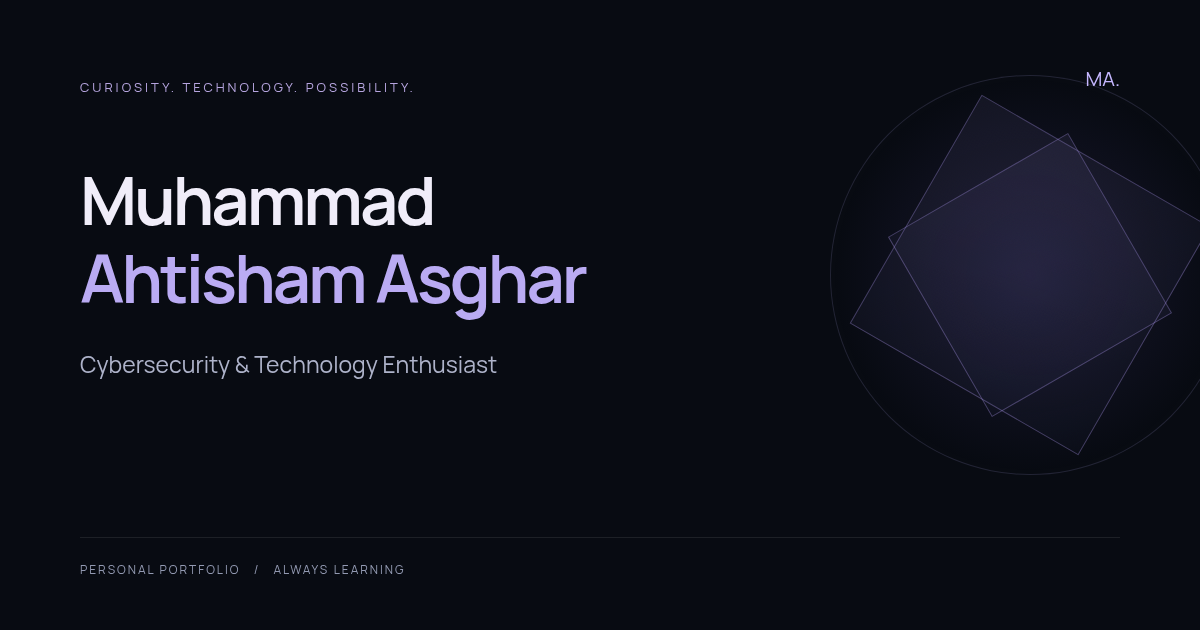
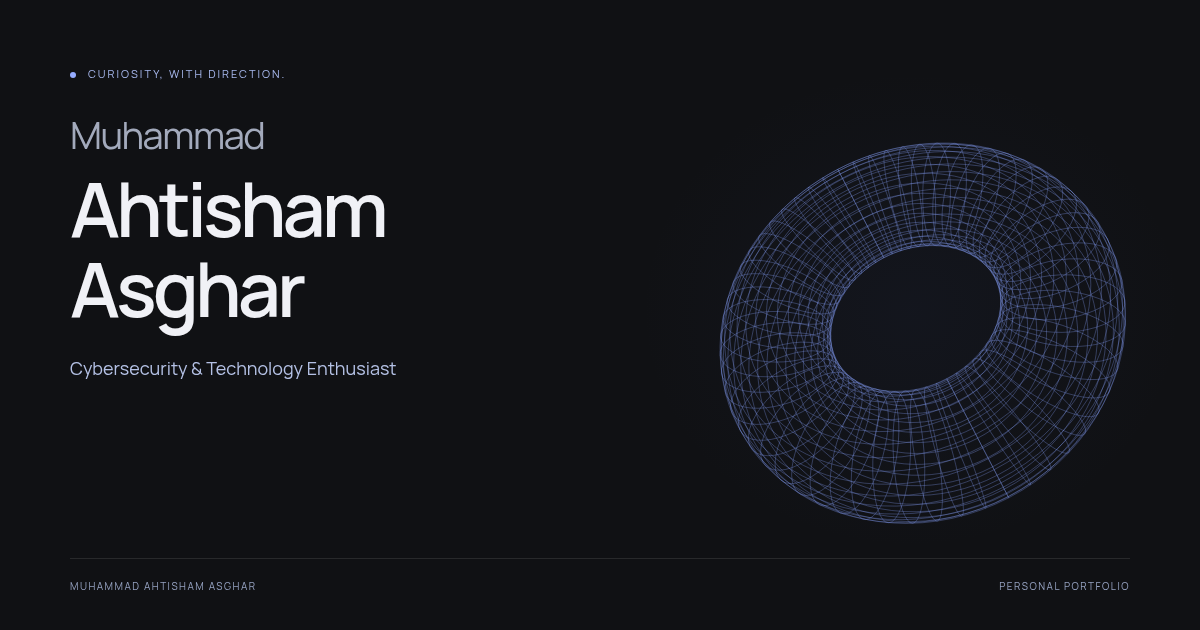
Polish portfolio presentation and update social identity

diff --git a/src/components/Contact.tsx b/src/components/Contact.tsx
@@ -83,9 +83,9 @@ export function Contact() {
               LET’S CONNECT
             </p>
             <h2 id="contact-heading">
-              Great conversations.
+              Let’s start a
               <br />
-              <span className="gradient-text">New possibilities.</span>
+              <span className="gradient-text">conversation.</span>
             </h2>
             <p>{portfolio.contact.introduction}</p>
             <div className="contact-actions">
@@ -129,7 +129,8 @@ export function Contact() {
               </div>
             )}
             <p className="social-footnote">
-              <span aria-hidden="true" />A little curiosity can go a long way.
+              <span aria-hidden="true" />
+              Good ideas often start with a conversation.
             </p>
           </div>
         </div>

diff --git a/src/components/Skills.tsx b/src/components/Skills.tsx
@@ -26,17 +26,7 @@ export function Skills() {
   return (
     <section id="skills" className="section container" tabIndex={-1} aria-label="Technical skills">
       <Reveal>
-        <SectionHeading
-          number="02"
-          label="MY GROWING TOOLKIT"
-          title={
-            <>
-              Foundations for
-              <br />
-              <span className="muted-title">what comes next.</span>
-            </>
-          }
-        >
+        <SectionHeading number="02" label="TECHNICAL TOOLKIT" title={<>Tools I’m growing with.</>}>
           Technologies and areas I’m learning and working with. Select a card to explore my focus.
         </SectionHeading>
       </Reveal>

diff --git a/src/components/Learning.tsx b/src/components/Learning.tsx
@@ -39,12 +39,12 @@ export function Learning() {
       <Reveal>
         <SectionHeading
           number="03"
-          label="THE LEARNING JOURNEY"
+          label="EDUCATION & LEARNING"
           title={
             <>
-              Progress with
+              Building a solid
               <br />
-              <span className="muted-title">purpose.</span>
+              <span className="muted-title">foundation.</span>
             </>
           }
         >

diff --git a/src/components/Projects.tsx b/src/components/Projects.tsx
@@ -74,9 +74,9 @@ export function Projects() {
             <div className="project-empty-copy">
               <StatusBadge>In the making</StatusBadge>
               <h3>
-                Good things take
+                From learning
                 <br />
-                thoughtful work.
+                to building.
               </h3>
               <p>
                 I’m exploring, experimenting, and putting what I learn into practice. This space

diff --git a/PROGRESS.md b/PROGRESS.md
@@ -2,16 +2,16 @@
 
 _Last updated: 2026-11-09 (Asia/Karachi). This document supersedes the original Codex Cloud milestones and the outdated deployment notes._
 
-## Current status — professional redesign in progress
+## Current status — professional redesign, deployment verified
 
 - **Canonical repository:** [ahtishamasghar/portfolio](https://github.com/ahtishamasghar/portfolio)
 - **Production branch:** `main`; the user has requested recent design and animation changes directly on `main`.
 - **GitHub Pages URL:** https://ahtishamasghar.github.io/portfolio/
 - **Deployment method:** GitHub Actions builds the Vite site for the `/portfolio/` base path and deploys the generated `dist/` artifact when the validated `main` branch changes.
-- **Latest verified source commit before this documentation update:** `c7cd49279e068c8fbf713711716dac5eb7fc0130` — `Improve small-label contrast for accessible editorial theme`.
-- **Latest verified deployment:** [GitHub Actions run #42519464660](https://github.com/ahtishamasghar/portfolio/actions/runs/42519464660), **success**. Validation, Pages artifact build, and Pages deployment all succeeded. The associated Playwright suite reported **28 passed**.
+- **Latest verified source commit before this documentation update:** `35ad742` — `Redesign portfolio with professional layout and controllable motion`.
+- **Latest verified deployment:** [GitHub Actions run #42546375876](https://github.com/ahtishamasghar/portfolio/actions/runs/42546375876), **success**. Validation, Pages artifact build, and Pages deployment all succeeded. The local corresponding Playwright suite reported **30 passed**.
 - **Public browser verification:** GitHub confirms successful publication. A separate manual visual check of the live public site across browsers/devices is still recommended; do not equate a successful workflow with independent visual approval.
-- **Current implementation:** professional dark editorial redesign with a procedural wire sculpture, larger typography, cobalt accents, a single consolidated stylesheet, and controllable animation. The earlier ATELIER design is historical. Latest redesign deployment verification is pending; the successful run above describes the previous baseline.
+- **Current implementation:** professional dark editorial redesign with a procedural wire sculpture, larger typography, cobalt accents, a single consolidated stylesheet, and controllable animation. The earlier ATELIER design is historical. The first redesign checkpoint deployed successfully in the run above. The final copy/social-image refinement is a subsequent checkpoint and must be verified separately.
 
 ## Resume instructions
 
@@ -103,14 +103,23 @@ Completed:
 - Desktop/mobile Playwright: **30 passed**, including zero axe violations, real animation pause/resume, reduced motion, keyboard navigation, and clipboard fallback.
 - `/portfolio/` production build and browser smoke test: passed. Default build restored afterward.
 
-## Exact next steps
+## Milestone 7 — final polish and handoff
 
-1. Finish the remaining editorial refinements, refresh the social preview/favicon, and correct the stale README. Inspect desktop/tablet/mobile screenshots.
-2. Run affected validation, update this log, commit, and push to `main` without force. Fetch and check for concurrent changes before each push.
-3. Inspect the GitHub Actions web run for the exact pushed commit. `api.github.com` and the public Pages domain are currently denied by the cloud network policy; Git operations and GitHub web pages work. Do not claim a fresh deployment is verified based on older successful runs.
-4. A temporary Git stash named “Professional redesign draft before syncing latest main” preserves the initial draft; it has been integrated. Do not reapply it. The old feature branch is historical; continue on `main`.
-5. For local tests use `PLAYWRIGHT_CHROMIUM_EXECUTABLE_PATH=/usr/bin/chromium`. `scripts/verify-project-path.mjs` now accepts the same override, while CI uses its installed matching browser.
+- Refined section headings and contact copy for clear, direct presentation.
+- Regenerated the 1200×630 Open Graph image with matching typography and the wire sculpture. Updated the favicon to match the new identity.
+- Corrected README deployment status, theme architecture, and motion controls; retained full local-development, content-editing, project, certification, and Pages instructions.
+- Inspected desktop, tablet, and mobile screenshots. Mobile remains a single-column layout with readable type and a compact header.
+- Formatting, lint, type check, production build, and **30 desktop/mobile Playwright tests passed** after these changes; accessibility scans report zero violations.
+- The previous redesign checkpoint (`35ad742`) is independently confirmed successful by the GitHub Actions web page: run `42546375876`, including Pages deployment.
+
+## Exact next steps and verification limits
+
+1. Inspect the Actions run for the final polish commit following `35ad742`. Record the exact result; do not infer success from the prior deployment. Code and assets are locally verified and ready.
+2. Continue from `main` and this progress log. Fetch and inspect concurrent changes before editing or pushing; never force-push or restart the project.
+3. `api.github.com` and the live Pages domain are denied by the current cloud network policy. Git and GitHub web pages work. Verify Actions via its web run; independent live-site visual inspection must wait until the Pages domain is allowed. Local desktop/tablet/mobile screenshots have been inspected.
+4. A temporary stash named “Professional redesign draft before syncing latest main” preserves the initial draft. It is already integrated; do not reapply it. The old feature branch is historical.
+5. Use `PLAYWRIGHT_CHROMIUM_EXECUTABLE_PATH=/usr/bin/chromium` for local browser checks and `scripts/verify-project-path.mjs`; CI installs the matching browser itself.
 6. Real Safari/Firefox, screen readers, and hands-on device testing remain outside the executed Chromium/axe checks.
 7. Never invent credentials, employment, completed projects, certification achievements, or LinkedIn links.
 
-Current session changes are tested locally. The new deployment must still be checked after pushing; the prior successful production baseline is recorded above.
+All requested design and animation implementation is complete. The final polish deployment verification is the only pending task for this milestone.

diff --git a/README.md b/README.md
@@ -1,10 +1,10 @@
 # Muhammad Ahtisham Asghar — Personal Portfolio
 
-A complete, dark-first portfolio for a **Cybersecurity & Technology Enthusiast**, built with React, TypeScript, Vite, Tailwind CSS, Motion for React, and Lucide React. The design uses locally hosted typography, original geometric artwork, blue/violet accents, and responsive layouts. No backend, API keys, analytics, or paid services are required.
+A complete, dark-first portfolio for a **Cybersecurity & Technology Enthusiast**, built with React, TypeScript, Vite, Tailwind CSS, Motion for React, and Lucide React. The design uses strong editorial typography, a charcoal and cobalt palette, an original animated wire sculpture, and responsive layouts. No backend, API keys, analytics, or paid services are required.
 
 The content accurately represents an ongoing BS in Cybersecurity at the University of Sargodha. Learning areas are not presented as professional proficiency. Google certification is in progress; Cisco completion remains unconfirmed. The projects collection is intentionally empty, and LinkedIn is an explicit, non-clickable placeholder.
 
-**Deployment status:** source and deployment configuration are provided; a live GitHub Pages deployment has not yet been verified. See [PROGRESS.md](PROGRESS.md) for current checkpoints, test evidence, and continuation instructions.
+**Production site:** https://ahtishamasghar.github.io/portfolio/. The existing GitHub Pages workflow is configured and has deployed previous releases. New changes are validated and deployed from `main`; see [PROGRESS.md](PROGRESS.md) for the latest verified revision and any outstanding checks.
 
 ## Local development
 
@@ -69,7 +69,8 @@ public/
 scripts/generate-social-image.mjs
 src/
   content/portfolio.ts          Identity, copy, skills, education, certificates, projects
-  components/                  Small section and interface components
+  components/                  Sections, animation controls, and procedural sculpture
+  motion/                      Shared pause/resume and reduced-motion preferences
   App.tsx                       Page composition and Motion settings
   main.tsx                      React entry point
   styles.css                    Tailwind import, font faces, theme and layout
@@ -96,6 +97,12 @@ Start with **`src/content/portfolio.ts`**. This is the source of truth for perso
 - `seo` holds the title and description; `siteUrl` is the default canonical site URL.
 
 Section titles and visual labels live in their respective `src/components` files. Layout, colors, focus indicators, and breakpoints live in `src/styles.css`. Keep the contrast and reduced-motion behavior when changing the theme.
+
+### Motion and visual styling
+
+The active theme is consolidated in `src/styles.css`; there are no legacy theme override imports. `SignalSculpture.tsx` renders the original wire sculpture in Canvas 2D without WebGL, image downloads, or additional runtime dependencies. It is capped at 24 fps and 1.5× pixel density, stops when off-screen or the tab is hidden, and responds subtly to mouse movement.
+
+The visible **Motion on / Motion paused** control stops decorative animation and disables entrance transitions and smooth scrolling. System reduced-motion preferences take priority. The graphic is decorative and does not carry essential content. `MotionProvider` supplies the shared preference to the sculpture, reveal effects, and scroll progress.
 
 After editing the name or headline, regenerate the social image and commit it:
 
@@ -133,9 +140,9 @@ Allowed statuses are `In Progress`, `Completion status to be confirmed`, and `Co
 
 ## GitHub Pages deployment
 
-The requested destination is **`AHTISHAMASGHAR/AHTISHAMASGHAR.github.io`**, whose user-site address is `https://ahtishamasghar.github.io/`. The default Vite base is `/`, appropriate for that repository name.
+The active repository is **`AHTISHAMASGHAR/portfolio`**, deployed as a project site at `https://ahtishamasghar.github.io/portfolio/`. The original user-site target was `AHTISHAMASGHAR/AHTISHAMASGHAR.github.io`; the configuration still supports it if the repository is renamed later.
 
-The currently connected source repository is **`AHTISHAMASGHAR/portfolio`** (formerly `ahtishamreal/portfolio`). If you retain that repository name, its default Pages address is `https://ahtishamasghar.github.io/portfolio/`. The workflow reads the actual configured Pages URL and base path, so both repository layouts are supported without editing source code.
+The workflow reads the actual configured Pages URL and base path, so both repository layouts are supported. Local development uses `/`; production receives `/portfolio/` from GitHub Pages.
 
 1. Make sure the source exists in the intended GitHub repository. For the user-site address, the repository must be named `AHTISHAMASGHAR.github.io`; you can rename the source repository in GitHub settings or transfer the reviewed code into that repository.
 2. Open **Settings → Pages → Build and deployment → Source**, and choose **GitHub Actions**. Do not choose deployment from a source branch for this Vite application.
